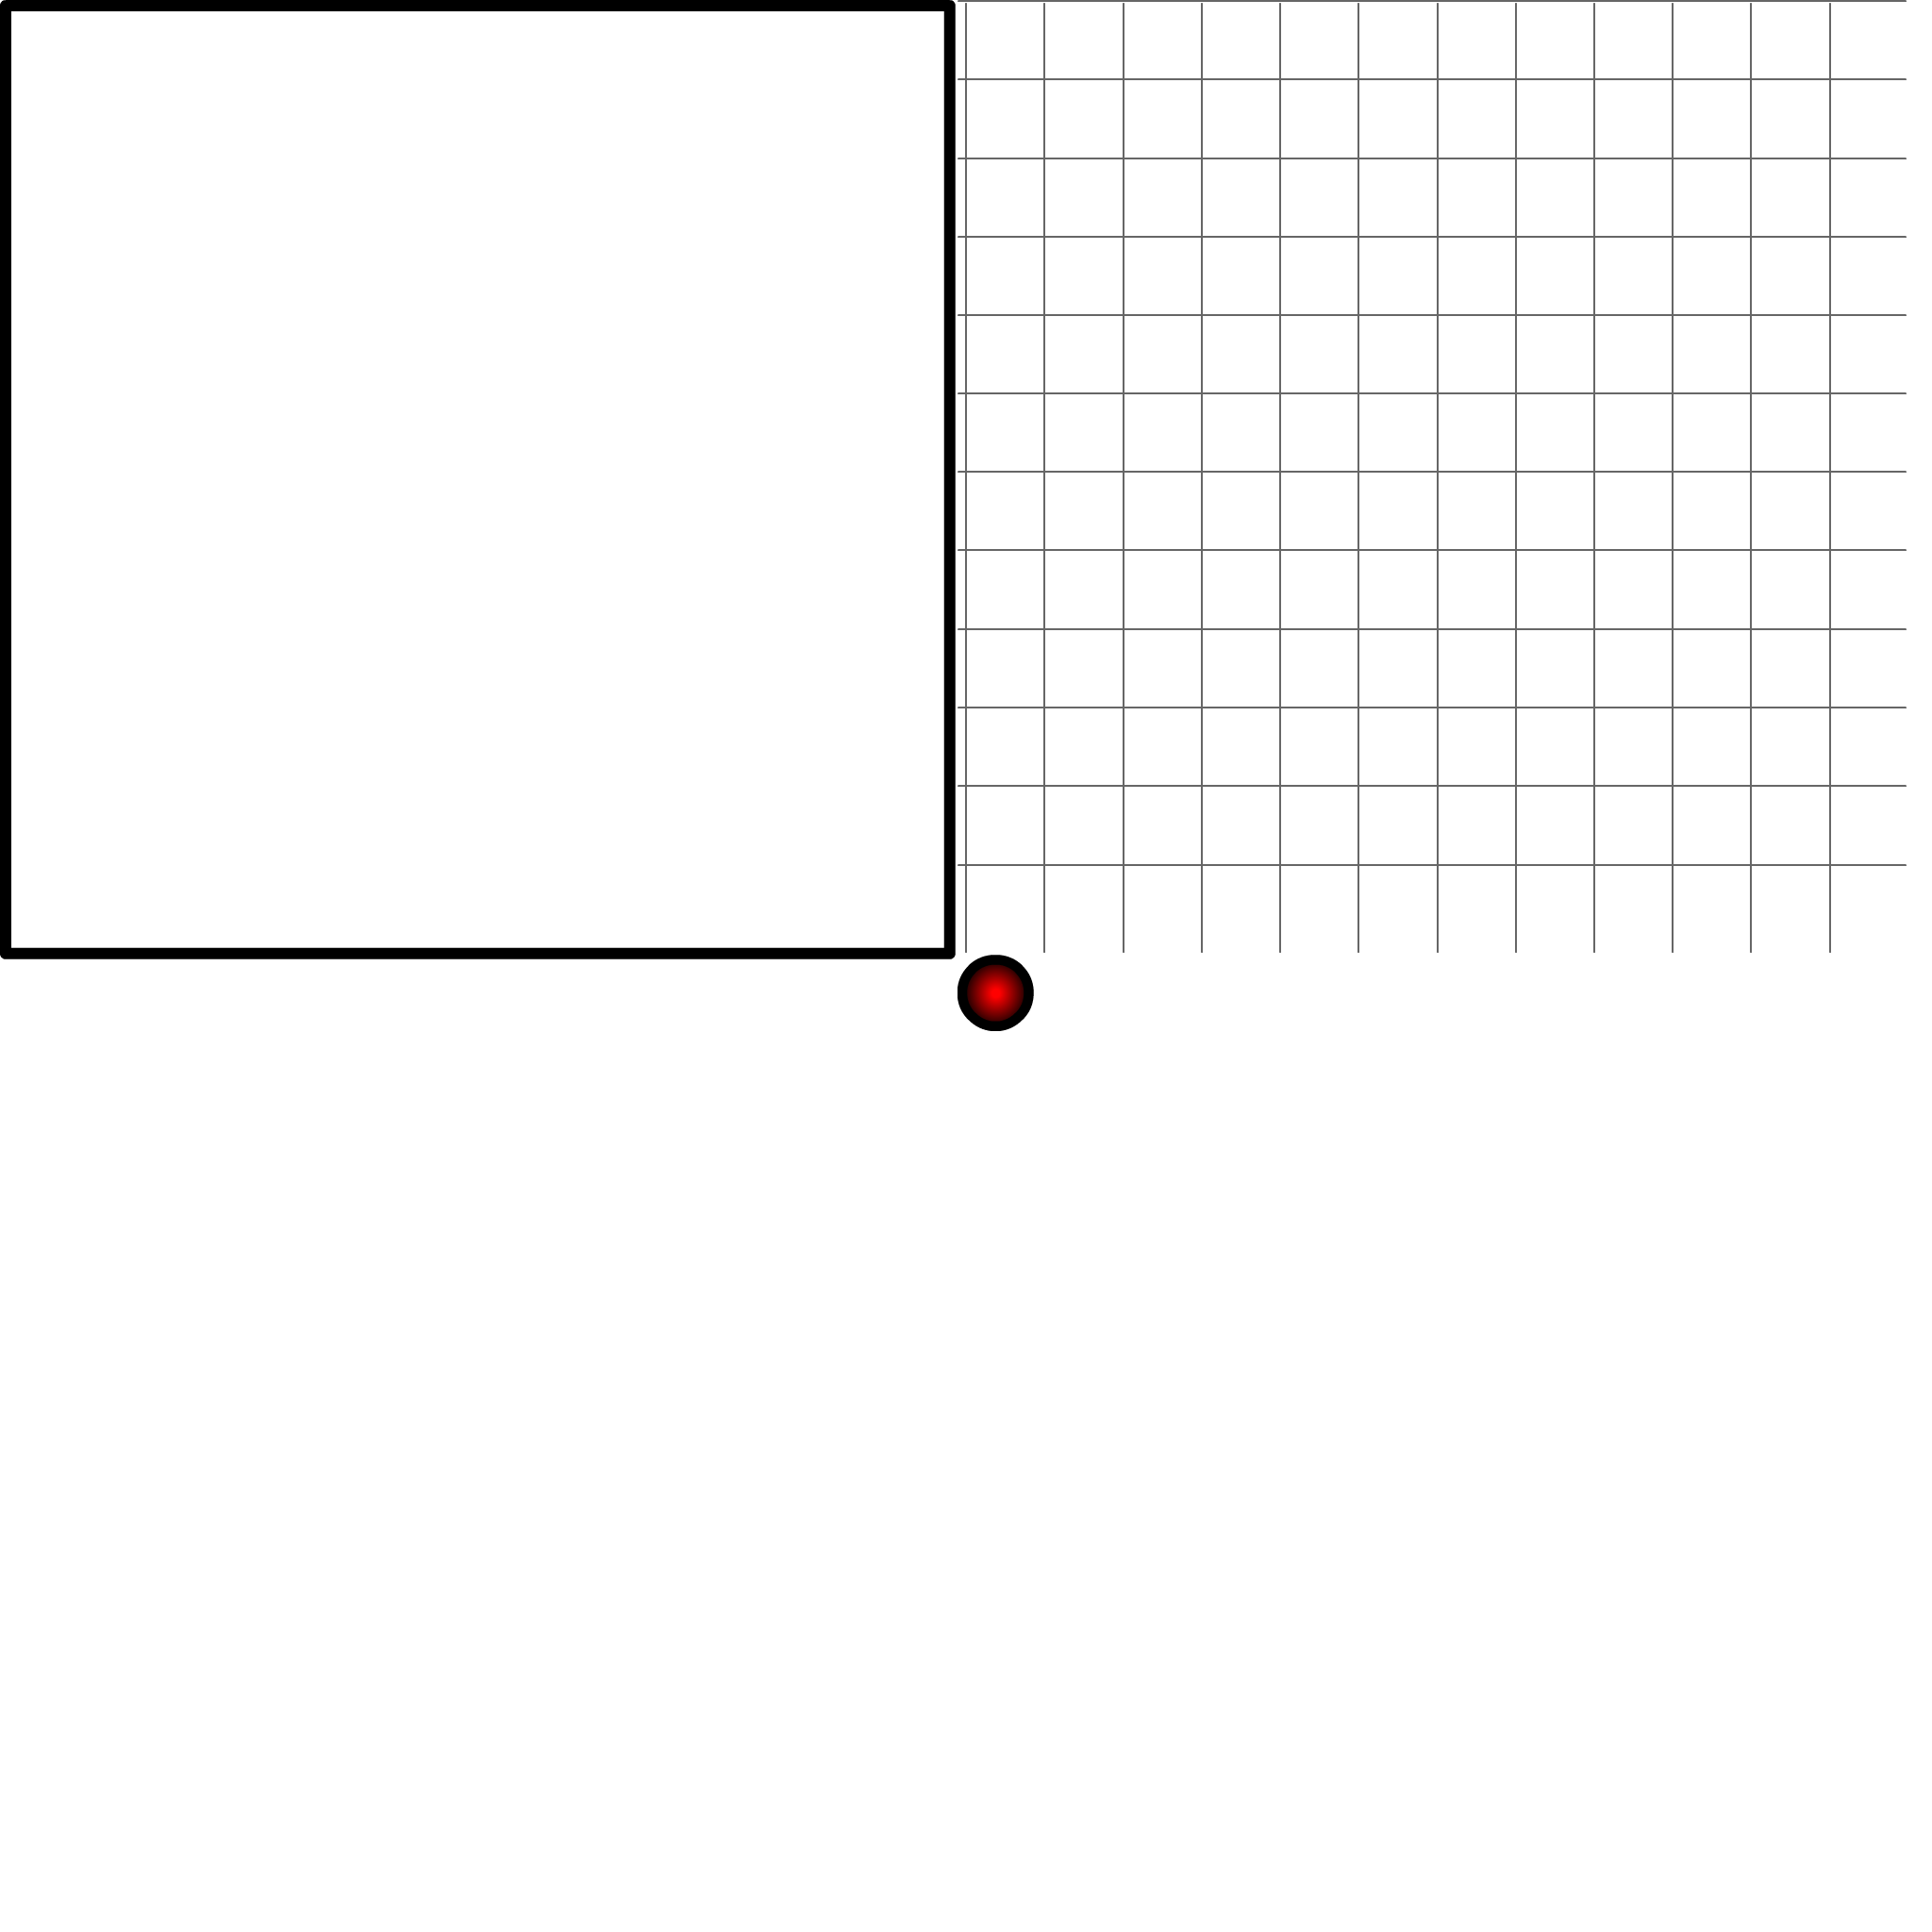
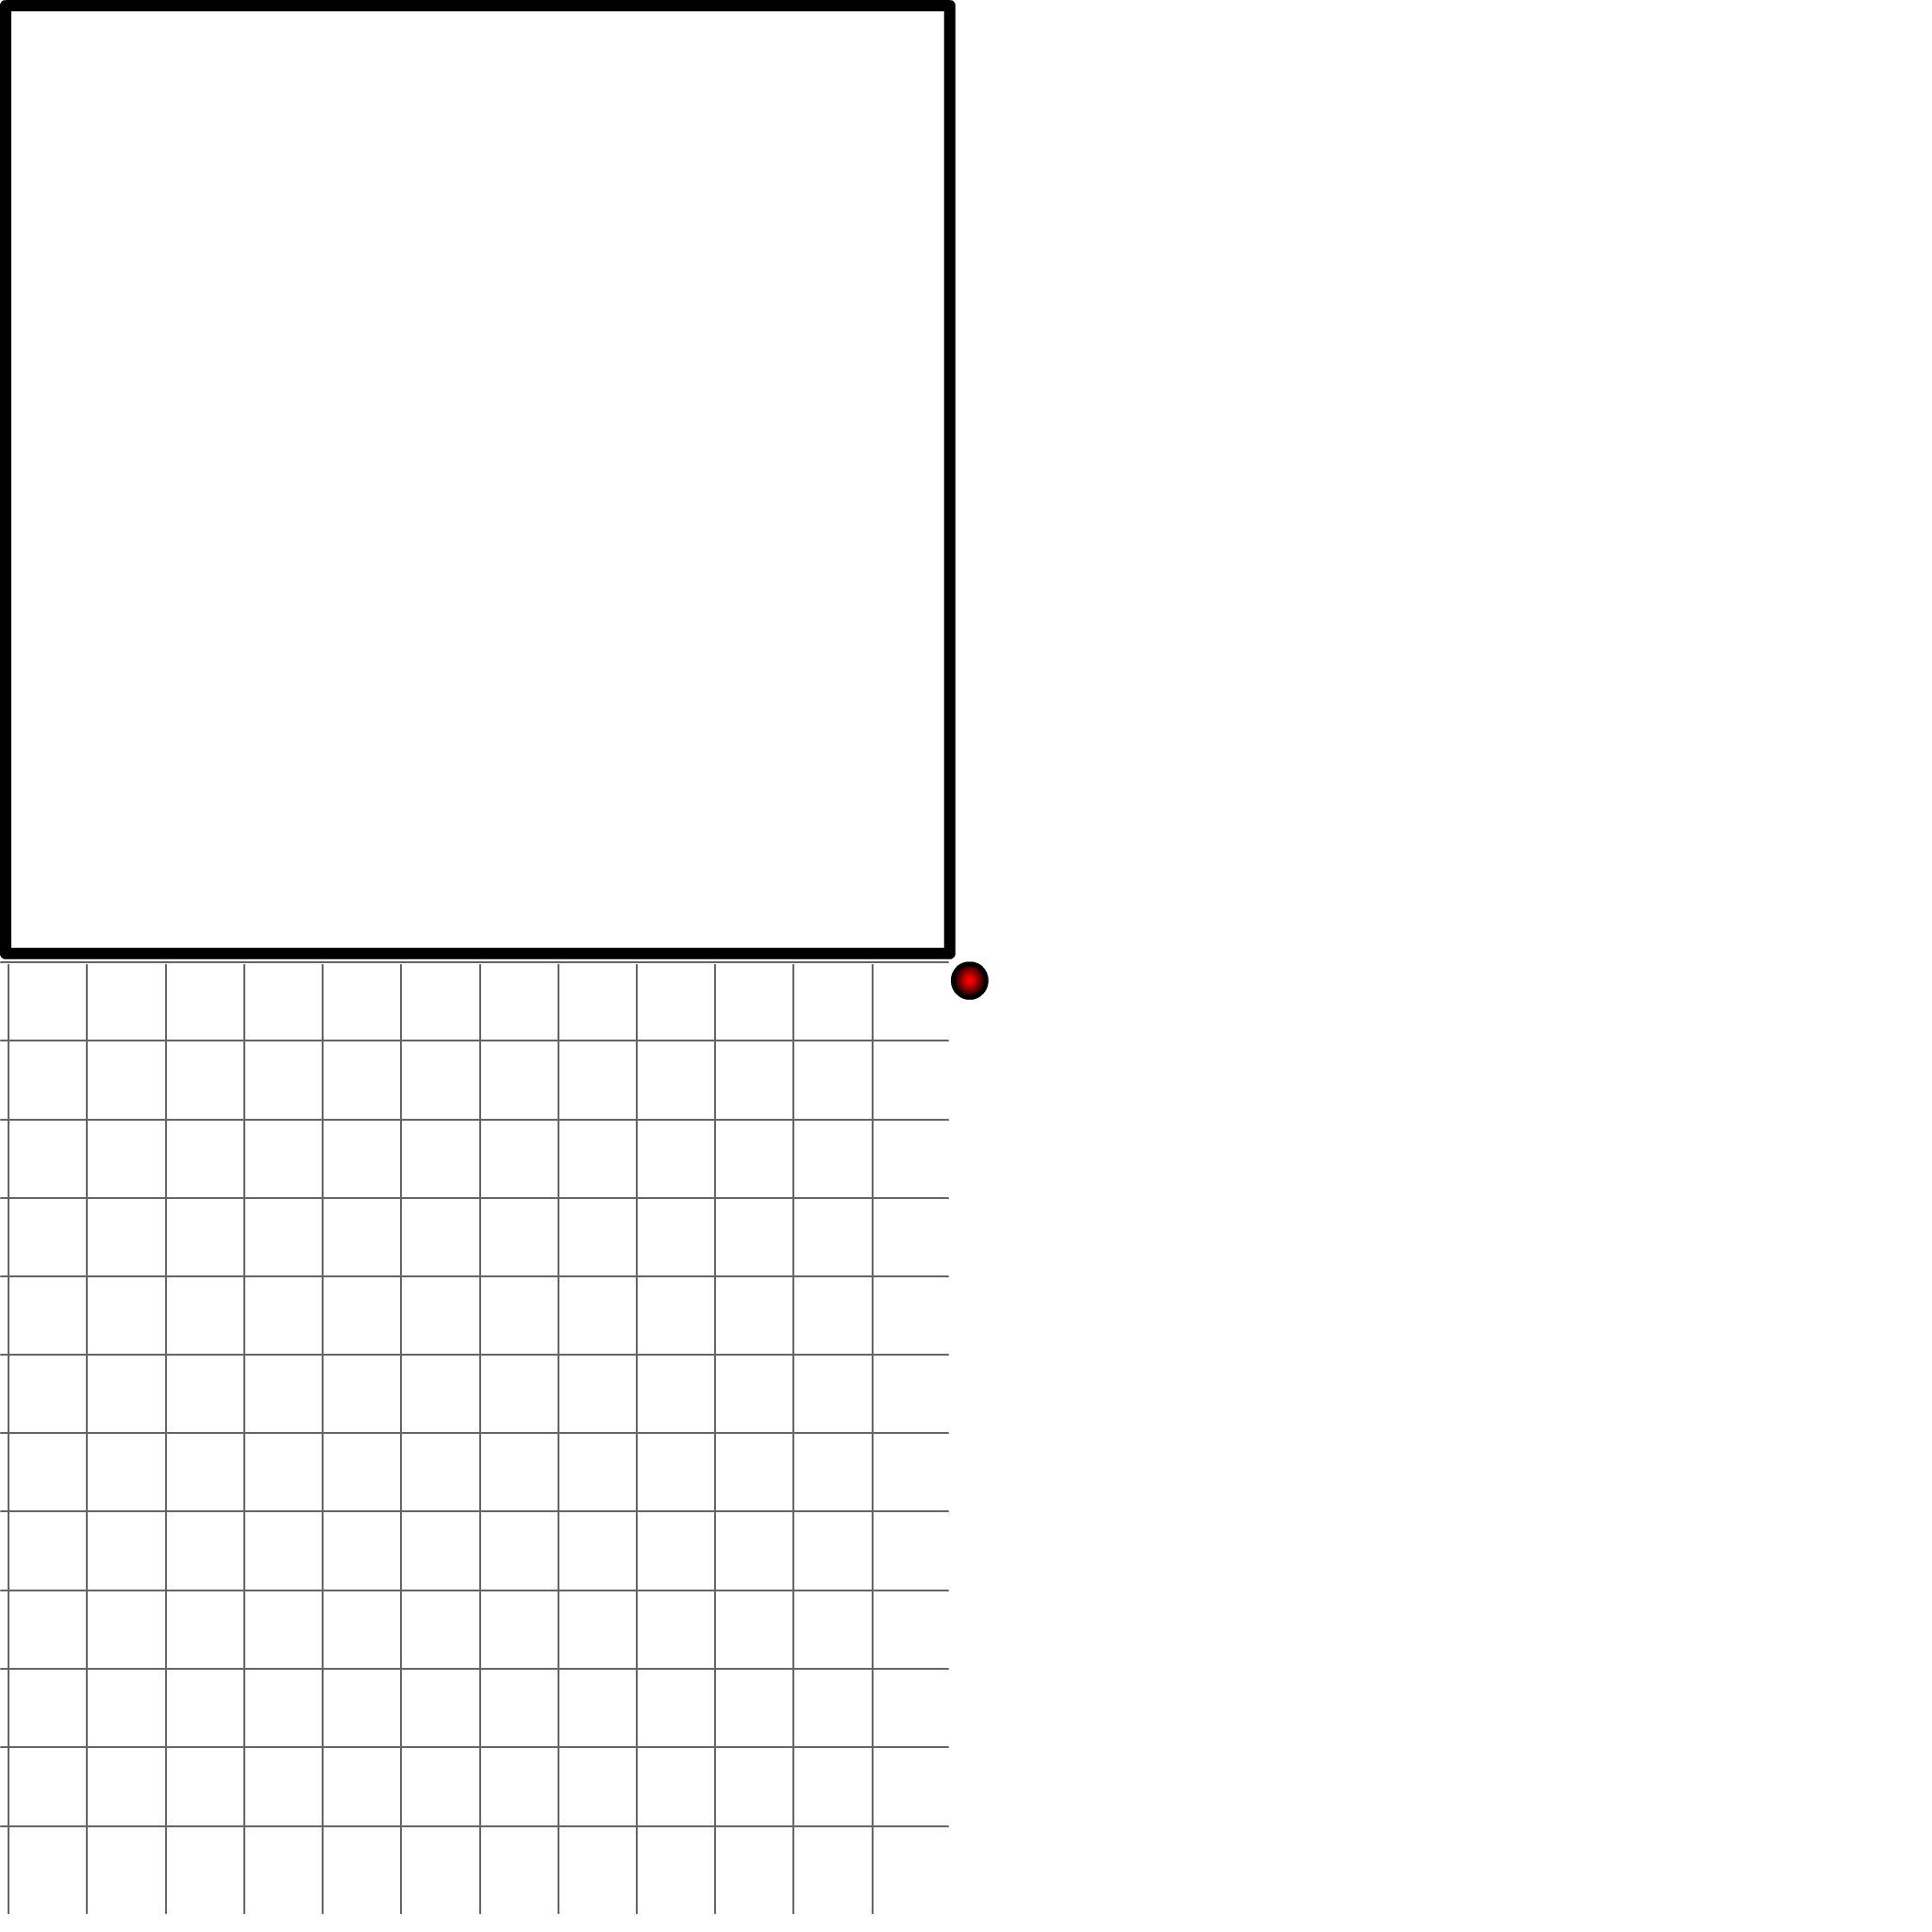
Add files via upload

Changed region(s): [[0.4688, 0.4688, 0.5312, 0.5312]]

diff --git a/12Cronopios.js b/12Cronopios.js
@@ -3,7 +3,7 @@
 var p; // shortcut to reference prototypes
 var lib={};var ss={};var img={};
 lib.ssMetadata = [
-		{name:"12Cronopios_atlas_", frames: [[1015,0,1006,1010],[1015,1012,81,81],[0,0,1013,1017]]}
+		{name:"12Cronopios_atlas_", frames: [[0,1019,1006,1010],[1008,1019,40,41],[0,0,1013,1017]]}
 ];
 
 
@@ -11,21 +11,21 @@ lib.ssMetadata = [
 
 
 
-(lib.CachedTexturedBitmap_11 = function() {
+(lib.CachedTexturedBitmap_7 = function() {
 	this.initialize(ss["12Cronopios_atlas_"]);
 	this.gotoAndStop(0);
 }).prototype = p = new cjs.Sprite();
 
 
 
-(lib.CachedTexturedBitmap_12 = function() {
+(lib.CachedTexturedBitmap_8 = function() {
 	this.initialize(ss["12Cronopios_atlas_"]);
 	this.gotoAndStop(1);
 }).prototype = p = new cjs.Sprite();
 
 
 
-(lib.CachedTexturedBitmap_13 = function() {
+(lib.CachedTexturedBitmap_9 = function() {
 	this.initialize(ss["12Cronopios_atlas_"]);
 	this.gotoAndStop(2);
 }).prototype = p = new cjs.Sprite();
@@ -52,7 +52,7 @@ function getMCSymbolPrototype(symbol, nominalBounds, frameBounds) {
 	this.initialize(mode,startPosition,loop,{});
 
 	// Cuadricula
-	this.instance = new lib.CachedTexturedBitmap_11();
+	this.instance = new lib.CachedTexturedBitmap_7();
 	this.instance.parent = this;
 	this.instance.setTransform(61.5,55.15,0.5,0.5);
 
@@ -65,7 +65,7 @@ function getMCSymbolPrototype(symbol, nominalBounds, frameBounds) {
 	this.initialize(mode,startPosition,loop,{});
 
 	// Capa_1
-	this.instance = new lib.CachedTexturedBitmap_13();
+	this.instance = new lib.CachedTexturedBitmap_9();
 	this.instance.parent = this;
 	this.instance.setTransform(-245.35,-245.35,0.5,0.5);
 
@@ -78,9 +78,9 @@ function getMCSymbolPrototype(symbol, nominalBounds, frameBounds) {
 	this.initialize(mode,startPosition,loop,{});
 
 	// Capa_1
-	this.instance = new lib.CachedTexturedBitmap_12();
+	this.instance = new lib.CachedTexturedBitmap_8();
 	this.instance.parent = this;
-	this.instance.setTransform(-22.25,-25.55,0.5675,0.5675);
+	this.instance.setTransform(-22.25,-25.55,1.1364,1.1364);
 
 	this.timeline.addTween(cjs.Tween.get(this.instance).wait(1));
 
@@ -114,7 +114,7 @@ function getMCSymbolPrototype(symbol, nominalBounds, frameBounds) {
 	this.Capa_1 = new lib.ch_Capa_1();
 	this.Capa_1.name = "Capa_1";
 	this.Capa_1.parent = this;
-	this.Capa_1.setTransform(0.7,-2.6,1,1,0,0,0,0.7,-2.6);
+	this.Capa_1.setTransform(0.5,-2.2,1,1,0,0,0,0.5,-2.2);
 	this.Capa_1.depth = 0;
 	this.Capa_1.isAttachedToCamera = 0
 	this.Capa_1.isAttachedToMask = 0
@@ -124,7 +124,7 @@ function getMCSymbolPrototype(symbol, nominalBounds, frameBounds) {
 
 	this.timeline.addTween(cjs.Tween.get(this.Capa_1).wait(1));
 
-}).prototype = getMCSymbolPrototype(lib.ch, new cjs.Rectangle(-22.2,-25.5,45.9,45.9), null);
+}).prototype = getMCSymbolPrototype(lib.ch, new cjs.Rectangle(-22.2,-25.5,45.4,46.6), null);
 
 
 (lib.Escena_1_clips = function(mode,startPosition,loop) {
@@ -134,71 +134,80 @@ function getMCSymbolPrototype(symbol, nominalBounds, frameBounds) {
 	this.movieClip_18 = new lib.ch();
 	this.movieClip_18.name = "movieClip_18";
 	this.movieClip_18.parent = this;
-	this.movieClip_18.setTransform(414.25,480.15,0.8759,0.881,0,0,0,0.1,0.1);
+	this.movieClip_18.setTransform(499.5,402.8,0.4374,0.44,0,0,0,0.1,0.1);
 
 	this.movieClip_17 = new lib.ch();
 	this.movieClip_17.name = "movieClip_17";
 	this.movieClip_17.parent = this;
-	this.movieClip_17.setTransform(324.8,474.45,0.8759,0.881,0,0,0,0.1,0.1);
+	this.movieClip_17.setTransform(440.4,513.5,0.4374,0.44,0,0,0,0.2,0.1);
 
 	this.movieClip_16 = new lib.ch();
 	this.movieClip_16.name = "movieClip_16";
 	this.movieClip_16.parent = this;
-	this.movieClip_16.setTransform(123.2,474.45,0.8759,0.881,0,0,0,0.1,0.1);
+	this.movieClip_16.setTransform(149.2,471.65,0.4374,0.44,0,0,0,0.1,0.1);
 
 	this.movieClip_15 = new lib.ch();
 	this.movieClip_15.name = "movieClip_15";
 	this.movieClip_15.parent = this;
-	this.movieClip_15.setTransform(476.7,366.85,0.8759,0.881,0,0,0,0.1,0.1);
+	this.movieClip_15.setTransform(417.45,232.9,0.4374,0.44,0,0,0,0.2,0.1);
 
 	this.movieClip_14 = new lib.ch();
 	this.movieClip_14.name = "movieClip_14";
 	this.movieClip_14.parent = this;
-	this.movieClip_14.setTransform(222.9,353,0.8759,0.881,0,0,0,0.1,0.1);
+	this.movieClip_14.setTransform(175.3,250.45,0.4374,0.44,0,0,0,0.1,0.1);
 
 	this.movieClip_13 = new lib.ch();
 	this.movieClip_13.name = "movieClip_13";
 	this.movieClip_13.parent = this;
-	this.movieClip_13.setTransform(441.7,261.9,0.8759,0.881,0,0,0,0.1,0.1);
+	this.movieClip_13.setTransform(482,118.8,0.4374,0.44,0,0,0,0.1,0.2);
 
 	this.movieClip_12 = new lib.ch();
 	this.movieClip_12.name = "movieClip_12";
 	this.movieClip_12.parent = this;
-	this.movieClip_12.setTransform(315.6,307.4,0.8759,0.881,0,0,0,0.1,0.1);
+	this.movieClip_12.setTransform(336.95,203.15,0.4374,0.44,0,0,0,0.2,0.2);
 
 	this.movieClip_11 = new lib.ch();
 	this.movieClip_11.name = "movieClip_11";
 	this.movieClip_11.parent = this;
-	this.movieClip_11.setTransform(139.25,238.45,0.8759,0.881,0,0,0,0.1,0.1);
+	this.movieClip_11.setTransform(274,307.05,0.4374,0.44,0,0,0,0.2,0.2);
 
 	this.movieClip_10 = new lib.ch();
 	this.movieClip_10.name = "movieClip_10";
 	this.movieClip_10.parent = this;
-	this.movieClip_10.setTransform(441.7,116.95,0.8759,0.881,0,0,0,0.1,0.1);
+	this.movieClip_10.setTransform(300.9,454.05,0.4374,0.44,0,0,0,0.1,0.1);
 
 	this.movieClip_9 = new lib.ch();
 	this.movieClip_9.name = "movieClip_9";
 	this.movieClip_9.parent = this;
-	this.movieClip_9.setTransform(315.6,176.85,0.8759,0.881,0,0,0,0.1,0.1);
+	this.movieClip_9.setTransform(149.25,159.65,0.4374,0.44,0,0,0,0.2,0.2);
 
 	this.movieClip_8 = new lib.ch();
 	this.movieClip_8.name = "movieClip_8";
 	this.movieClip_8.parent = this;
-	this.movieClip_8.setTransform(243.45,103.2,0.8759,0.881,0,0,0,0.1,0.1);
+	this.movieClip_8.setTransform(300.9,101.15,0.4374,0.44,0,0,0,0.1,0.1);
 
 	this.movieClip_7 = new lib.ch();
 	this.movieClip_7.name = "movieClip_7";
 	this.movieClip_7.parent = this;
-	this.movieClip_7.setTransform(131.2,122.95,0.8759,0.881,0,0,0,0.1,0.1);
+	this.movieClip_7.setTransform(140.15,83.6,0.4374,0.44,0,0,0,0.1,0.2);
 
+	this.timeline.addTween(cjs.Tween.get({}).to({state:[{t:this.movieClip_7},{t:this.movieClip_8},{t:this.movieClip_9},{t:this.movieClip_10},{t:this.movieClip_11},{t:this.movieClip_12},{t:this.movieClip_13},{t:this.movieClip_14},{t:this.movieClip_15},{t:this.movieClip_16},{t:this.movieClip_17},{t:this.movieClip_18}]}).wait(1));
+
+}).prototype = getMCSymbolPrototype(lib.Escena_1_clips, null, null);
+
+
+(lib.Escena_1_bordes = function(mode,startPosition,loop) {
+	this.initialize(mode,startPosition,loop,{});
+
+	// bordes
 	this.cuadrado = new lib.cuadrado();
 	this.cuadrado.name = "cuadrado";
 	this.cuadrado.parent = this;
 	this.cuadrado.setTransform(305.35,298.45);
 
-	this.timeline.addTween(cjs.Tween.get({}).to({state:[{t:this.cuadrado},{t:this.movieClip_7},{t:this.movieClip_8},{t:this.movieClip_9},{t:this.movieClip_10},{t:this.movieClip_11},{t:this.movieClip_12},{t:this.movieClip_13},{t:this.movieClip_14},{t:this.movieClip_15},{t:this.movieClip_16},{t:this.movieClip_17},{t:this.movieClip_18}]}).wait(1));
+	this.timeline.addTween(cjs.Tween.get(this.cuadrado).wait(1));
 
-}).prototype = getMCSymbolPrototype(lib.Escena_1_clips, null, null);
+}).prototype = getMCSymbolPrototype(lib.Escena_1_bordes, null, null);
 
 
 // stage content:
@@ -236,7 +245,7 @@ function getMCSymbolPrototype(symbol, nominalBounds, frameBounds) {
 
 	// timeline functions:
 	this.frame_0 = function() {
-		this.cuadrado = this.clips.cuadrado;
+		this.cuadrado = this.bordes.cuadrado;
 		this.movieClip_7 = this.clips.movieClip_7;
 		this.movieClip_8 = this.clips.movieClip_8;
 		this.movieClip_9 = this.clips.movieClip_9;
@@ -301,8 +310,8 @@ function getMCSymbolPrototype(symbol, nominalBounds, frameBounds) {
 		var vy18 = -1;
 		
 		// --- DIMENSIONES FIJAS ---
-		var ANCHO = 50;
-		var ALTO = 50;
+		var ANCHO = 25;
+		var ALTO = 25;
 		
 		// --- INICIO DE LA ANIMACIÓN ---
 		if (mc7 && mc18) { // Verificación rápida del primero y el último
@@ -749,16 +758,30 @@ function getMCSymbolPrototype(symbol, nominalBounds, frameBounds) {
 	// actions tween:
 	this.timeline.addTween(cjs.Tween.get(this).call(this.frame_0).wait(1));
 
+	// bordes_obj_
+	this.bordes = new lib.Escena_1_bordes();
+	this.bordes.name = "bordes";
+	this.bordes.parent = this;
+	this.bordes.setTransform(313.2,307.4,1,1,0,0,0,313.2,307.4);
+	this.bordes.depth = 0;
+	this.bordes.isAttachedToCamera = 0
+	this.bordes.isAttachedToMask = 0
+	this.bordes.layerDepth = 0
+	this.bordes.layerIndex = 0
+	this.bordes.maskLayerName = 0
+
+	this.timeline.addTween(cjs.Tween.get(this.bordes).wait(1));
+
 	// clips_obj_
 	this.clips = new lib.Escena_1_clips();
 	this.clips.name = "clips";
 	this.clips.parent = this;
-	this.clips.setTransform(313.2,307.4,1,1,0,0,0,313.2,307.4);
+	this.clips.setTransform(319.9,297.4,1,1,0,0,0,319.9,297.4);
 	this.clips.depth = 0;
 	this.clips.isAttachedToCamera = 0
 	this.clips.isAttachedToMask = 0
 	this.clips.layerDepth = 0
-	this.clips.layerIndex = 0
+	this.clips.layerIndex = 1
 	this.clips.maskLayerName = 0
 
 	this.timeline.addTween(cjs.Tween.get(this.clips).wait(1));
@@ -772,7 +795,7 @@ function getMCSymbolPrototype(symbol, nominalBounds, frameBounds) {
 	this.Cuadricula.isAttachedToCamera = 0
 	this.Cuadricula.isAttachedToMask = 0
 	this.Cuadricula.layerDepth = 0
-	this.Cuadricula.layerIndex = 1
+	this.Cuadricula.layerIndex = 2
 	this.Cuadricula.maskLayerName = 0
 
 	this.timeline.addTween(cjs.Tween.get(this.Cuadricula).wait(1));
@@ -788,7 +811,7 @@ lib.properties = {
 	color: "#FFFFFF",
 	opacity: 1.00,
 	manifest: [
-		{src:"images/12Cronopios_atlas_.png?1765129908074", id:"12Cronopios_atlas_"}
+		{src:"images/12Cronopios_atlas_.png?1768351721699", id:"12Cronopios_atlas_"}
 	],
 	preloads: []
 };

diff --git a/12Cronopios.html b/12Cronopios.html
@@ -14,7 +14,7 @@
 <title>12Cronopios</title>
 <!-- write your code here -->
 <script src="https://code.createjs.com/createjs-2015.11.26.min.js"></script>
-<script src="12Cronopios.js?1765129908113"></script>
+<script src="12Cronopios.js?1768351721764"></script>
 <script>
 var canvas, stage, exportRoot, anim_container, dom_overlay_container, fnStartAnimation;
 function init() {